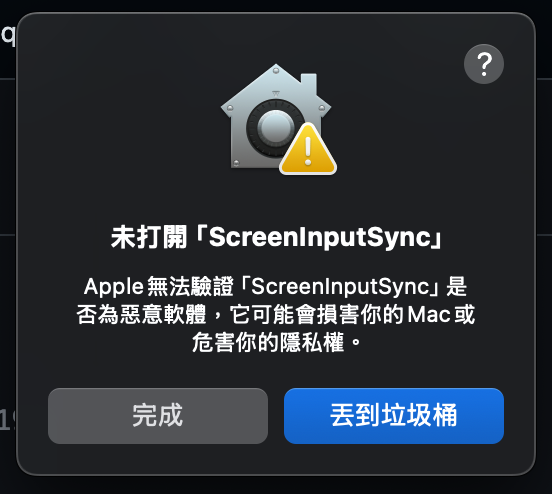
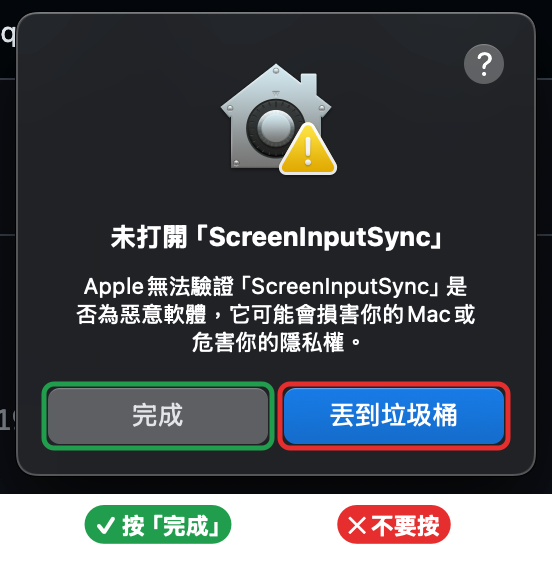
docs: annotate install and remote F17 screenshots, spell out F17 steps

diff --git a/README.md b/README.md
@@ -52,7 +52,7 @@ ScreenInputSync 的解法：
 
 1. 到 [Releases](https://github.com/Gitgitgitgghub/ScreenInputSync/releases/latest) 下載 `ScreenInputSync-x.y.zip`，點兩下解壓縮。
 2. 把 `ScreenInputSync.app` 拖進「應用程式」資料夾，再從那裡開啟。若直接在「下載」資料夾開啟，App 會提示並自動移到「應用程式」。
-3. App 未經 Apple 公證，第一次開啟會出現下面的視窗。按 **「完成」**（不要按「丟到垃圾桶」）。
+3. App 未經 Apple 公證，第一次開啟會出現下面的視窗。按 **「完成」**，**不要按「丟到垃圾桶」**。
 
    <img src="docs/images/gatekeeper-blocked.png" alt="未打開「ScreenInputSync」的提示視窗" width="276">
 
@@ -74,9 +74,17 @@ ScreenInputSync 的解法：
 
    ![遠端鍵盤設定：輸入方式為 ABC 和繁體注音](docs/images/remote-input-sources.png)
 
-2. **把 F17 設為「選擇上一個輸入方式」**：按「鍵盤快速鍵…」→ 左側選「輸入方式」→ 勾選「選擇上一個輸入方式」，點兩下右側的快捷鍵後按 F17。若鍵盤沒有 F17，可在本機裝好 ScreenInputSync 後，透過螢幕共享在該欄位按一次 Caps Lock，工具送出的 F17 就會被錄進去（已實測）。錄製時本機輸入法會跟著切換一次，但遠端不會，若之後兩邊相反，用 ⌘⇧ 對齊即可。
+2. **設定 F17 快捷鍵**（ScreenInputSync 用 F17 通知遠端切換輸入法）：
+   1. 在遠端的「系統設定 → 鍵盤」按「鍵盤快速鍵…」。
+   2. 左側選「輸入方式」。
+   3. 勾選「選擇上一個輸入方式」。
+   4. 在它右邊的快捷鍵上點兩下，進入錄製狀態後按 F17。
+      - **鍵盤沒有 F17**（大部分 Mac 鍵盤都沒有）：先在本機裝好並開啟 ScreenInputSync，從本機透過螢幕共享操作遠端，點兩下該欄位後按 **Caps Lock**。ScreenInputSync 會把它轉成 F17 送到遠端，就會錄成 F17。
+   5. 右邊顯示「F17」後，按「完成」。
 
-   ![遠端鍵盤快速鍵：選擇上一個輸入方式設為 F17](docs/images/remote-f17-shortcut.png)
+   ![遠端鍵盤快速鍵：左側選輸入方式，勾選選擇上一個輸入方式並設為 F17，再按完成](docs/images/remote-f17-shortcut.png)
+
+   用 Caps Lock 錄製時，本機輸入法會跟著切換一次，但遠端不會。如果之後兩邊輸入法相反，在螢幕共享裡按一次 `⌘⇧` 校正即可。
 
 ## 權限
 
